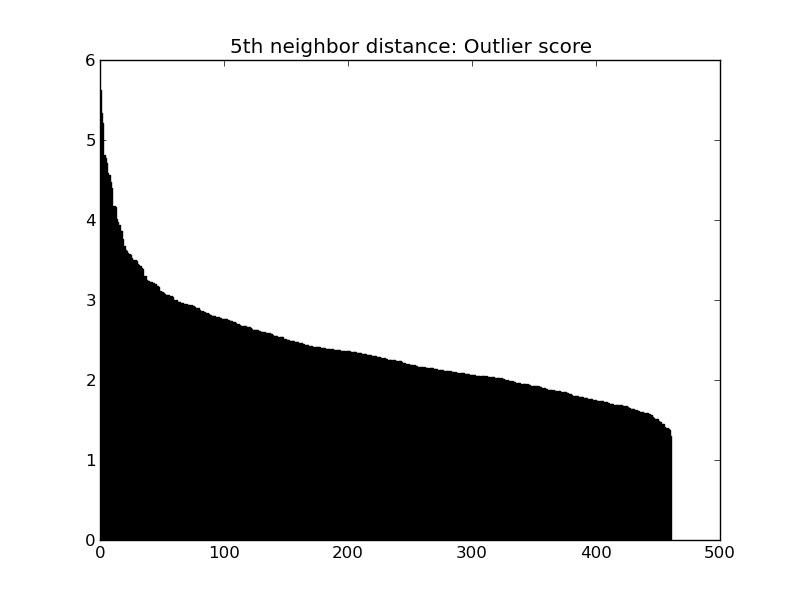
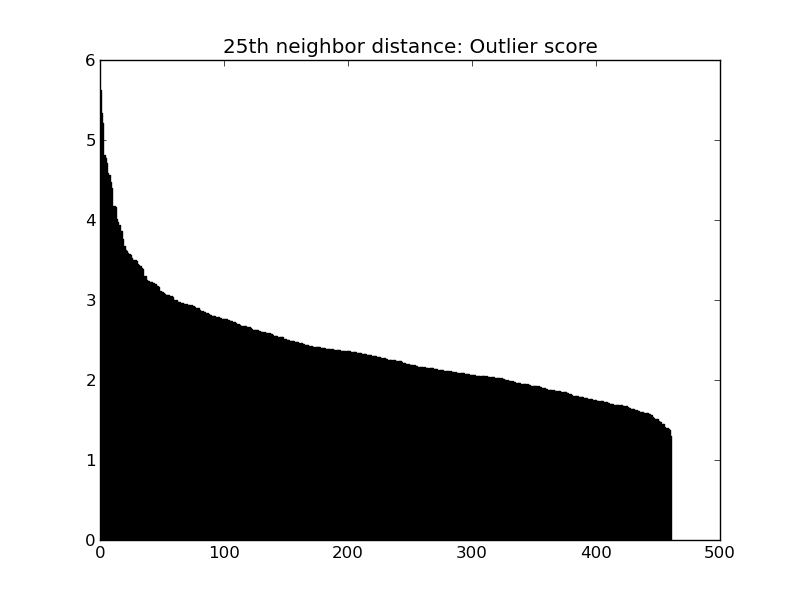
aesfargfadf

Changed region(s): [[0.2812, 0.06, 0.75, 0.09]]

diff --git a/Projekt 3/src/Project3.py b/Projekt 3/src/Project3.py
@@ -56,17 +56,17 @@ XPC = getPrincipalComponents(XStandardized)
 
 X2PC = np.copy(XPC)
 
-#plotCVK(XPC,range(1,21),iterations = 1)
-#gmm(XPC, y, 9, C, K=6)
+plotCVK(XPC,range(1,21),iterations = 1)
+gmm(XPC, y, 9, C, K=6)
 
-#hierarchicalClustering(XPC,y,6,C,Method = 'complete')
+hierarchicalClustering(XPC,y,6,C,Method = 'complete')
 
 XBin = convertToBinary(XCHD)
 
-#attributeNames2 = attributeNames + ['CHD']
+attributeNames2 = attributeNames + ['CHD']
 
-#WriteAprioriFile(XBin,titles=attributeNames2,filename="AprioriFile.txt")
+WriteAprioriFile(XBin,titles=attributeNames2,filename="AprioriFile.txt")
 
-#doApriori("AprioriFile.txt",minSup=30,minConf = 50)
+doApriori("AprioriFile.txt",minSup=30,minConf = 50)
 
-outlierDetection(XStandardized,objects = 461)
+outlierDetection(XStandardized,objects = 5)

diff --git a/Projekt 3/src/methods.py b/Projekt 3/src/methods.py
@@ -416,7 +416,7 @@ def outlierDetection(X, objects = 20):
     
     
     ### Distance to 5'th nearest neighbor outlier score
-    K = 5
+    K = 25
     
     # Find the k nearest neighbors
     knn = NearestNeighbors(n_neighbors=K).fit(X)
@@ -431,7 +431,7 @@ def outlierDetection(X, objects = 20):
     # Plot k-neighbor estimate of outlier score (distances)
     figure()
     bar(range(objects),score[:objects])
-    title('5th neighbor distance: Outlier score')
+    title('25th neighbor distance: Outlier score')
     # Plot possible outliers
     #figure()
     print "\n"
